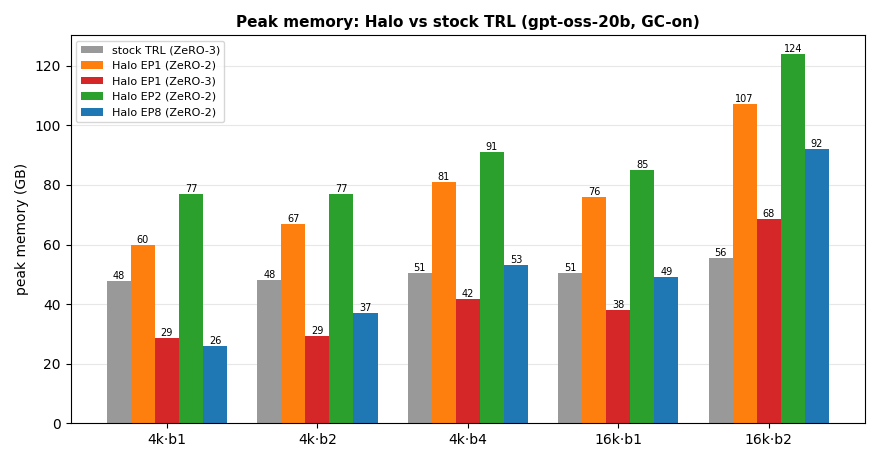
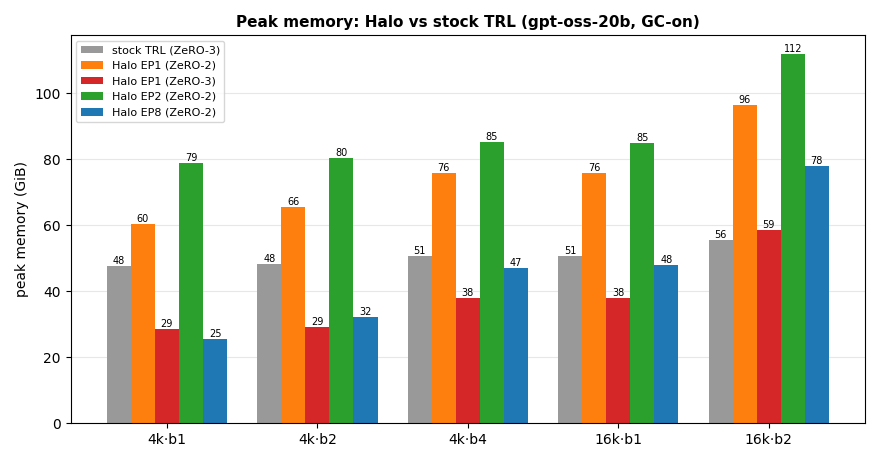
docs: regenerate the stock-TRL charts, fix the shard_ep1 help text
Regenerate throughput_4k16k.png and memory_4k16k.png from the page's 4k-16k
table and embed them again; remove convergence_loss.png, which no page uses.
The fsdp_shard_ep1_experts help no longer claims a throughput cost. Note that
the Gemma 4 Halo rows reproduce on main within 1%.

diff --git a/scripts/diagrams/gen_trl_benchmark_charts.py b/scripts/diagrams/gen_trl_benchmark_charts.py
@@ -55,20 +55,19 @@ def throughput_memory_4k16k():
         ("Halo EP8 (ZeRO-2)", C_EP8),
     ]
     tput = {
-        "stock TRL (ZeRO-3)": [3885, 5519, 6759, 6513, 7466],
-        "Halo EP1 (ZeRO-2)": [9009, 15429, 18823, 18304, 20730],
-        "Halo EP1 (ZeRO-3)": [5560, 6874, 10082, 17464, 18742],
-        "Halo EP2 (ZeRO-2)": [10479, 15314, 17949, 16407, 17219],
-        "Halo EP8 (ZeRO-2)": [8320, 9352, 10128, 9747, 9552],
+        "stock TRL (ZeRO-3)": [3859, 5496, 6719, 6588, 7392],
+        "Halo EP1 (ZeRO-2)": [11236, 17653, 23590, 20690, 23159],
+        "Halo EP1 (ZeRO-3)": [9694, 15532, 21678, 19505, 22321],
+        "Halo EP2 (ZeRO-2)": [12432, 17862, 20554, 18436, 19698],
+        "Halo EP8 (ZeRO-2)": [8852, 9609, 10358, 9981, 9650],
     }
     mem = {
         "stock TRL (ZeRO-3)": [47.6, 48.2, 50.6, 50.6, 55.6],
-        "Halo EP1 (ZeRO-2)": [60, 67, 81, 76, 107],
-        "Halo EP1 (ZeRO-3)": [28.7, 29.3, 41.6, 37.9, 68.4],
-        "Halo EP2 (ZeRO-2)": [77, 77, 91, 85, 124],
-        "Halo EP8 (ZeRO-2)": [26, 37, 53, 49, 92],
+        "Halo EP1 (ZeRO-2)": [60.3, 65.5, 75.8, 75.8, 96.5],
+        "Halo EP1 (ZeRO-3)": [28.7, 29.3, 37.9, 37.9, 58.6],
+        "Halo EP2 (ZeRO-2)": [78.9, 80.5, 85.2, 85.0, 112.0],
+        "Halo EP8 (ZeRO-2)": [25.4, 32.3, 47.2, 48.1, 78.0],
     }
-
     for data, ylabel, title, fname, fmt in [
         (
             tput,
@@ -79,7 +78,7 @@ def throughput_memory_4k16k():
         ),
         (
             mem,
-            "peak memory (GB)",
+            "peak memory (GiB)",
             "Peak memory: Halo vs stock TRL (gpt-oss-20b, GC-on)",
             "memory_4k16k.png",
             "{:,.0f}",

diff --git a/src/args/distributed_args.py b/src/args/distributed_args.py
@@ -402,9 +402,8 @@ class DistributedArguments:
             "help": "At ep_group_size==1 only (ep_size * expert_tp_size, i.e. the experts are truly "
             "replicated): FSDP-shard the MoE experts (reduce-scatter is their sole gradient sync; the "
             "EP layer skips its own hooks). True (default): frees memory that grows with DP "
-            "(gpt-oss-20b on 8 GPUs at batch 1: -59% peak memory for -10.5% throughput), "
-            "grad-equivalent. False: every DP rank keeps a full copy (max throughput, e.g. dense-ep1 "
-            "b1 SFT). No effect when "
+            "(gpt-oss-20b on 8 GPUs at batch 1: -59% peak memory at +1.8% throughput), "
+            "grad-equivalent. False: every DP rank keeps a full copy. No effect when "
             "ep_group_size>1 — that includes pure ETP (ep_size==1, expert_tp_size>1), where the "
             "experts are sharded across the ETP group rather than replicated. RL-safe (the vLLM "
             "weight-sync gather materializes the shards with full_tensor before reshaping) under both "

diff --git a/agent-docs/optimization/throughput-benchmarks.md b/agent-docs/optimization/throughput-benchmarks.md
@@ -22,7 +22,8 @@ order with the same optimizer hyperparameters, each at its newest release (2026-
 those tried. Tokens/s are measured over steps 6–25 at 2,048 tokens per row (25 steps) and over steps 6–50 at 16,384
 tokens per row (8 rows packed into one causal sequence, 50 steps); peak memory is `max_memory_allocated`, max over
 ranks. Each rate is the mean of its configuration's valid runs: a run whose token-weighted step-1 loss is more than 2%
-from the common value is left out.
+from the common value is left out. The Halo rows reproduce on main (0bc3a22a5) within 1%: 15,090 cluster tok/s at
+2,048 tokens and 16,219 at 16,384, at the same peak memory.
 
 | framework | version | layout | cluster tok/s | peak GiB/GPU |
 |---|---|---|---:|---:|

diff --git a/agent-docs/optimization/halo-vs-stock-trl.md b/agent-docs/optimization/halo-vs-stock-trl.md
@@ -29,6 +29,10 @@ The baseline gets the strongest stock options — ZeRO-3 and Liger's FLCE, which
 
 *8× B300 · 2026-10-03 · commit 0bc3a22a5 · Blackwell image. GC-on · grouped GEMM · TRL ZeRO-3 · Halo ZeRO-2 (EP1 also at ZeRO-3) · elastic.* **tok/s/GPU · peak GiB:**
 
+![Throughput: Halo vs stock TRL, 4k/16k](../assets/benchmarks/throughput_4k16k.png)
+
+![Peak memory: Halo vs stock TRL, 4k/16k](../assets/benchmarks/memory_4k16k.png)
+
 | seq·b | stock TRL (z3) | Halo EP1 (z2) | Halo EP1 (z3) | Halo EP2 (z2) | Halo EP8 (z2) |
 |---|---|---|---|---|---|
 | 4k·b1 | 3,859 · 47.6 | 11,236 · 60.3 | 9,694 · **28.7** | **12,432 · 78.9** | 8,852 · 25.4 |
